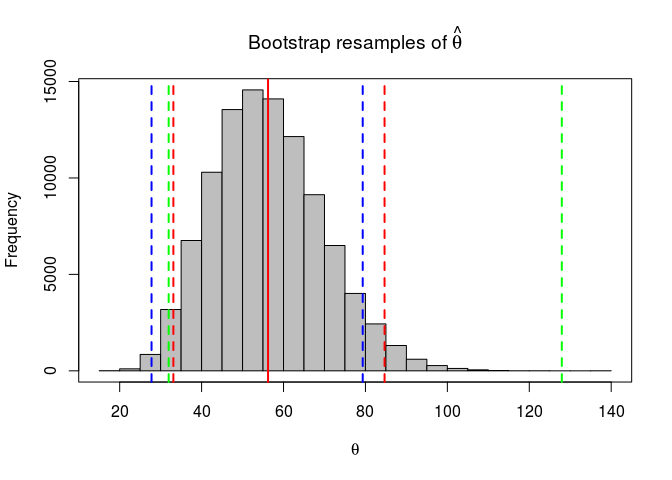
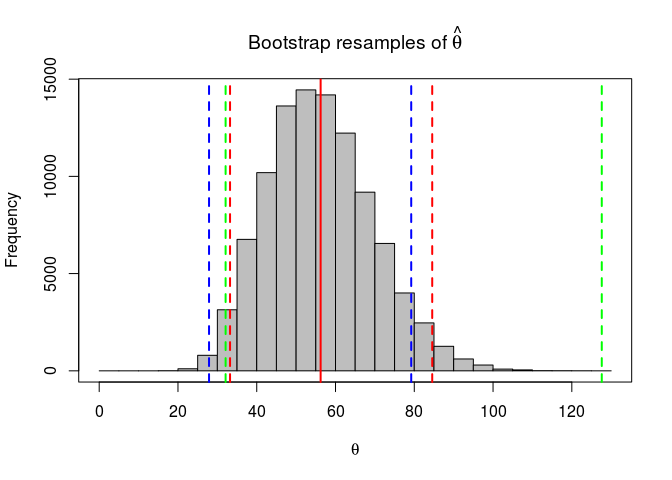
Update the book

diff --git a/intro.html b/intro.html
@@ -353,8 +353,8 @@ for (b in <span class="dv">1</span>:B) {
     theta.boot[b] &lt;-<span class="st"> </span>thetahat.boot
     
 }
-<span class="kw">hist</span>(theta.boot, <span class="dt">xlab =</span> <span class="kw">expression</span>(theta), <span class="dt">col =</span> <span class="st">&quot;gray&quot;</span>, <span class="dt">main =</span> <span class="kw">expression</span>(<span class="kw">paste</span>(<span class="st">&quot;Bootstrap resamples of &quot;</span>, 
-    <span class="kw">hat</span>(theta))))
+<span class="kw">hist</span>(theta.boot, <span class="dt">xlab =</span> <span class="kw">expression</span>(theta), <span class="dt">br =</span> <span class="kw">seq</span>(<span class="dv">0</span>, <span class="dv">130</span>, <span class="dt">by =</span> <span class="dv">5</span>), <span class="dt">col =</span> <span class="st">&quot;gray&quot;</span>, 
+    <span class="dt">main =</span> <span class="kw">expression</span>(<span class="kw">paste</span>(<span class="st">&quot;Bootstrap resamples of &quot;</span>, <span class="kw">hat</span>(theta))))
 <span class="kw">box</span>()
 <span class="kw">abline</span>(<span class="dt">v =</span> thetahat.c, <span class="dt">col =</span> <span class="st">&quot;red&quot;</span>, <span class="dt">lwd =</span> <span class="dv">2</span>)
 

diff --git a/simulations.html b/simulations.html
@@ -166,8 +166,8 @@ code > span.in { color: #60a0b0; font-weight: bold; font-style: italic; } /* Inf
 <span class="st">C--&gt;D[Rectangle One]</span>
 <span class="st">C--&gt;E[Rectangle Two]</span>
 <span class="st">&quot;</span>)</code></pre></div>
-<p><div id="htmlwidget-8611" style="width:672px;height:480px;" class="DiagrammeR html-widget"></div>
-<script type="application/json" data-for="htmlwidget-8611">{"x":{"diagram":"\ngraph LR\nA(Rounded)-->B[Rectangular]\nB-->C{A Rhombus}\nC-->D[Rectangle One]\nC-->E[Rectangle Two]\n"},"evals":[],"jsHooks":[]}</script></p>
+<p><div id="htmlwidget-9244" style="width:672px;height:480px;" class="DiagrammeR html-widget"></div>
+<script type="application/json" data-for="htmlwidget-9244">{"x":{"diagram":"\ngraph LR\nA(Rounded)-->B[Rectangular]\nB-->C{A Rhombus}\nC-->D[Rectangle One]\nC-->E[Rectangle Two]\n"},"evals":[],"jsHooks":[]}</script></p>
 
 </div>
 </div>
